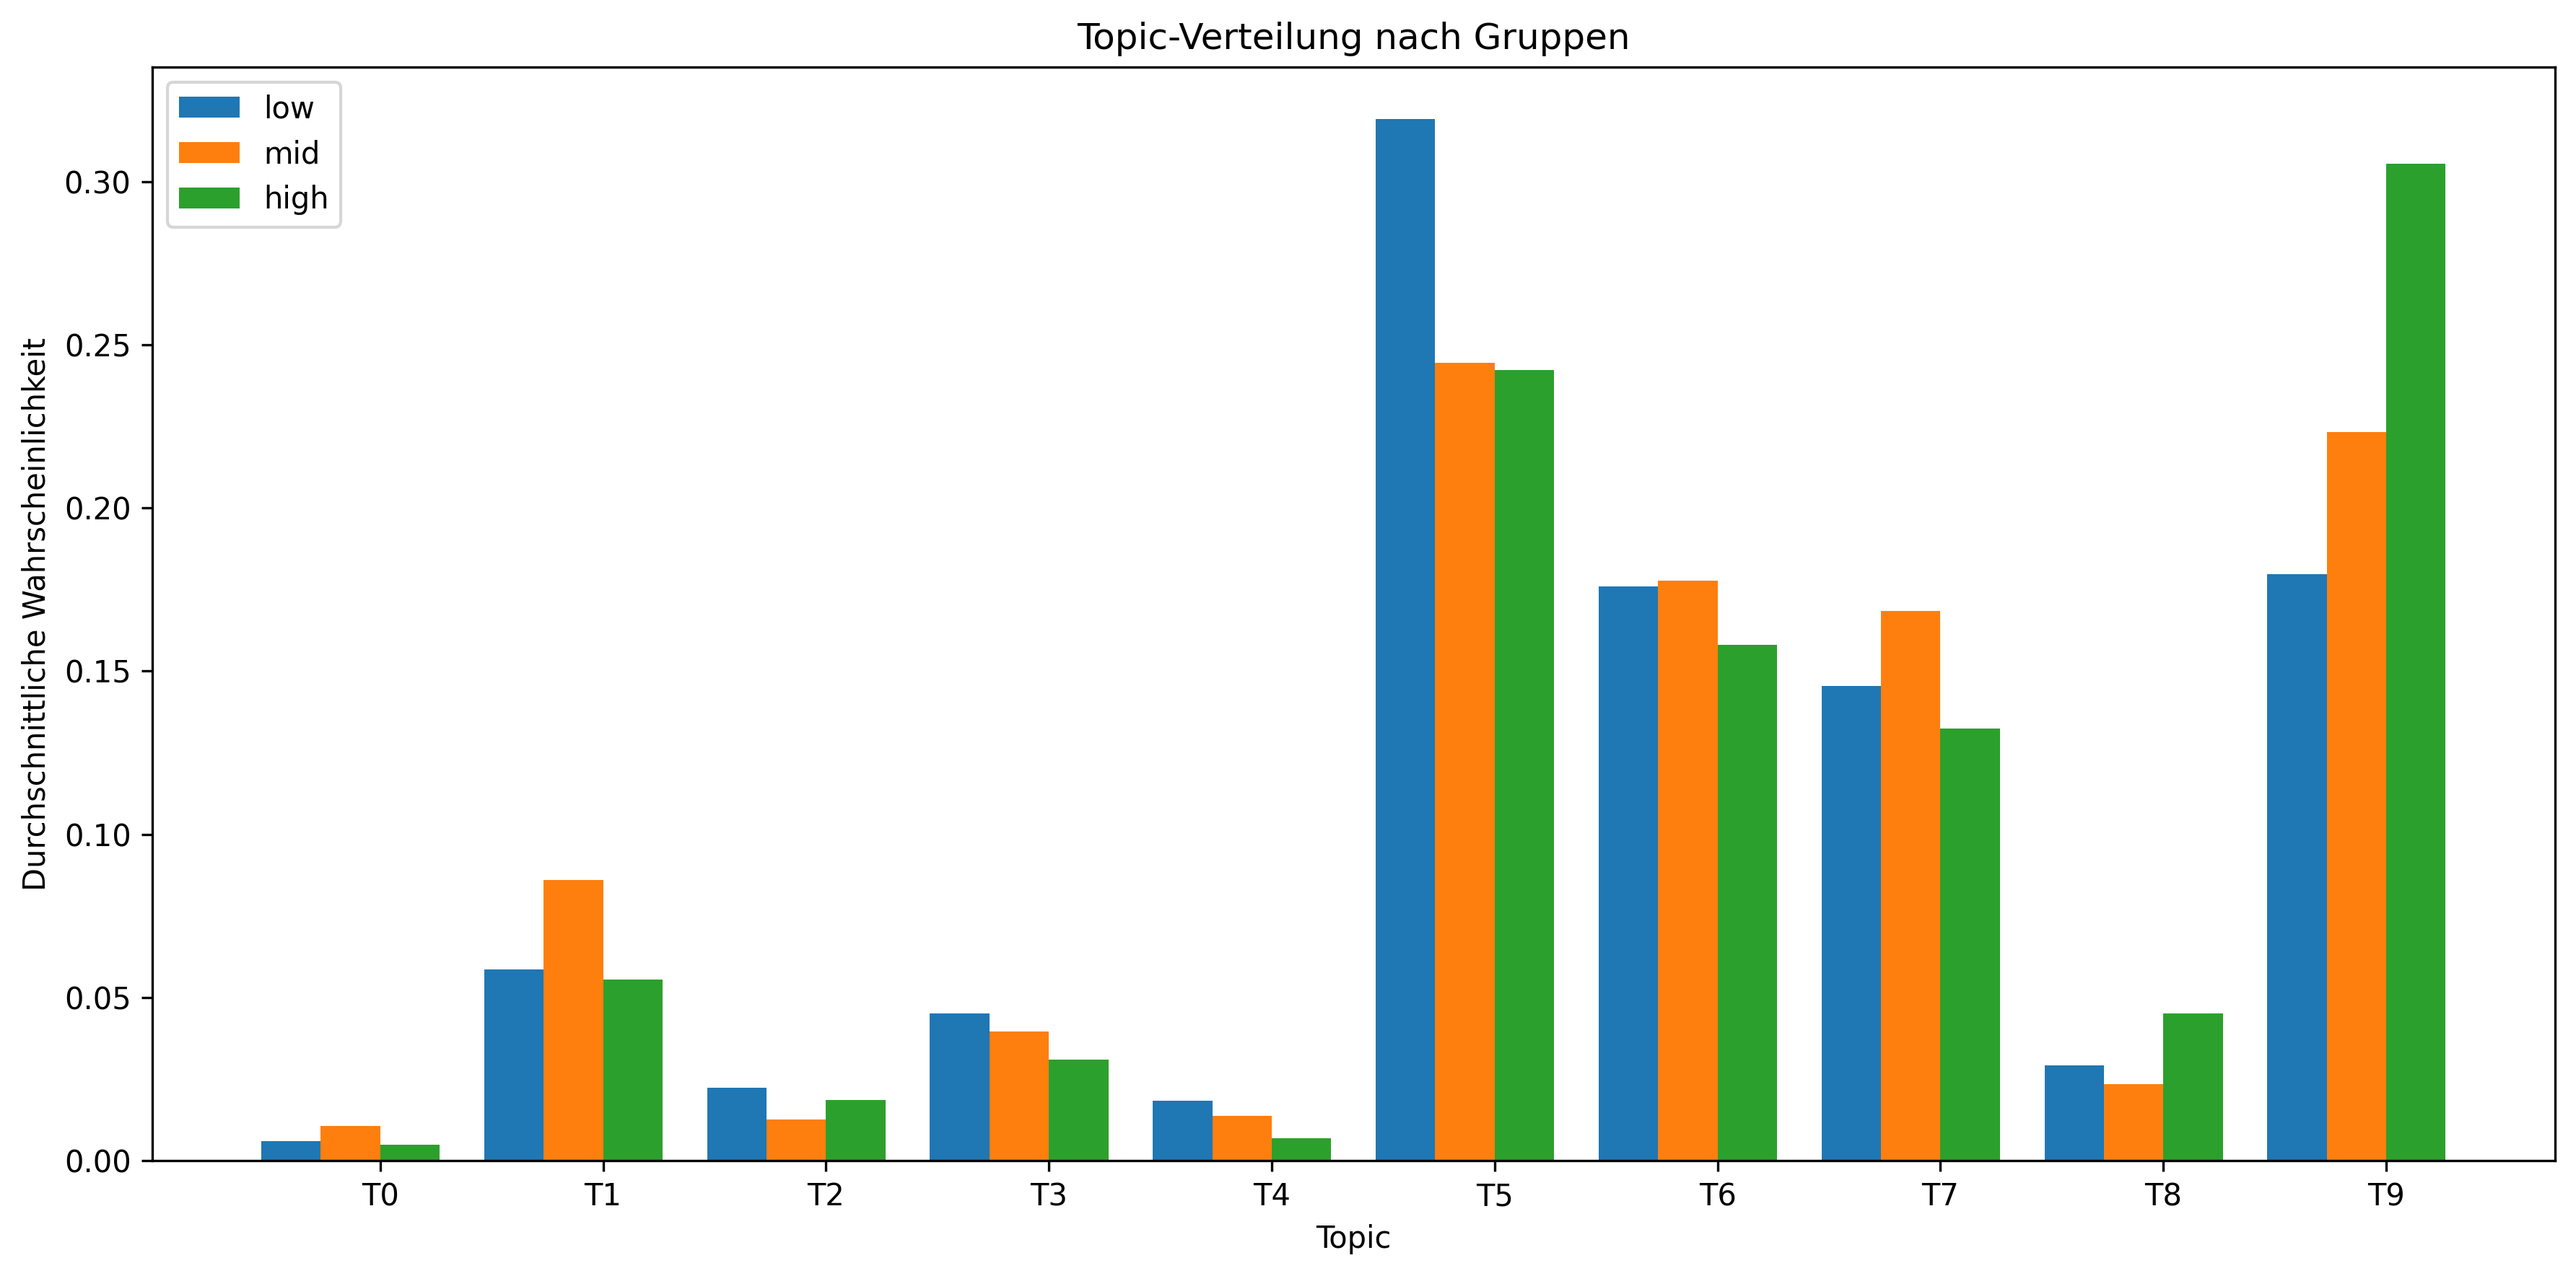
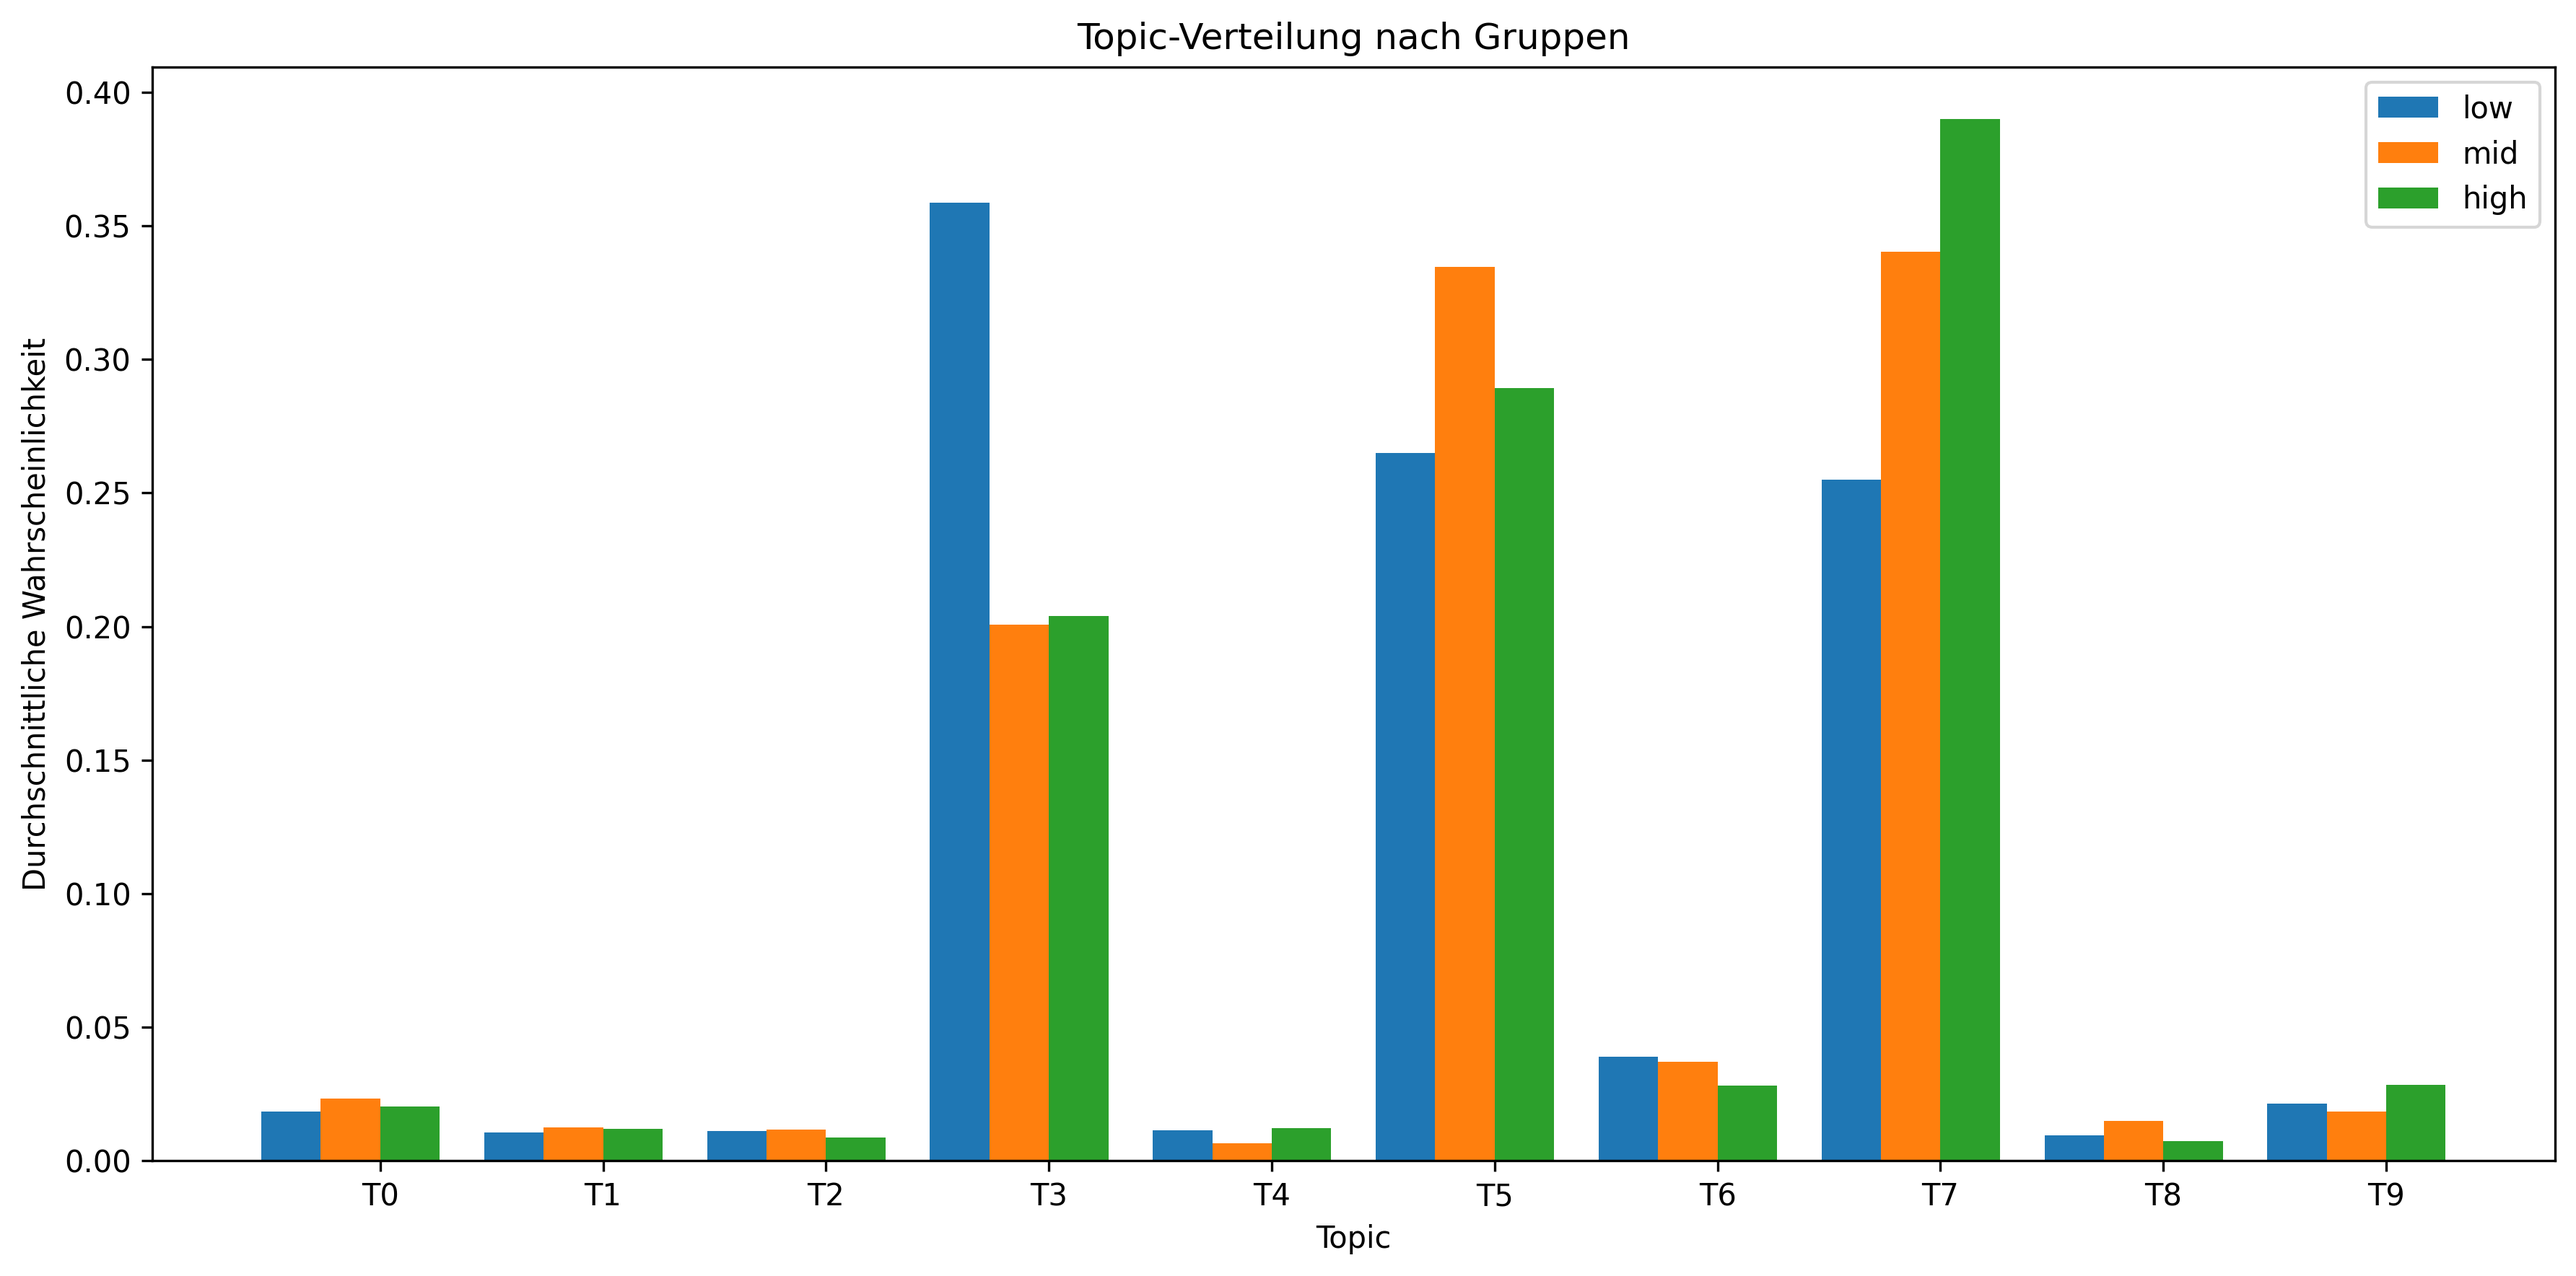
lda

diff --git a/digital-humanities/climate-debates/src/config.py b/digital-humanities/climate-debates/src/config.py
@@ -1,4 +1,4 @@
 PARLAMINT_DIR = "/Volumes/lhe-drive-1/datasets/ParlaMint-5.0"
 REDUCED_PARLAMINT_DIR = "/Volumes/lhe-drive-1/datasets/ParlaMint-5.0-Reduced"
 OCED_EPS_FILE = "./data/oecd_eps.csv"
-SEED = 2601241208
+SEED = 42
